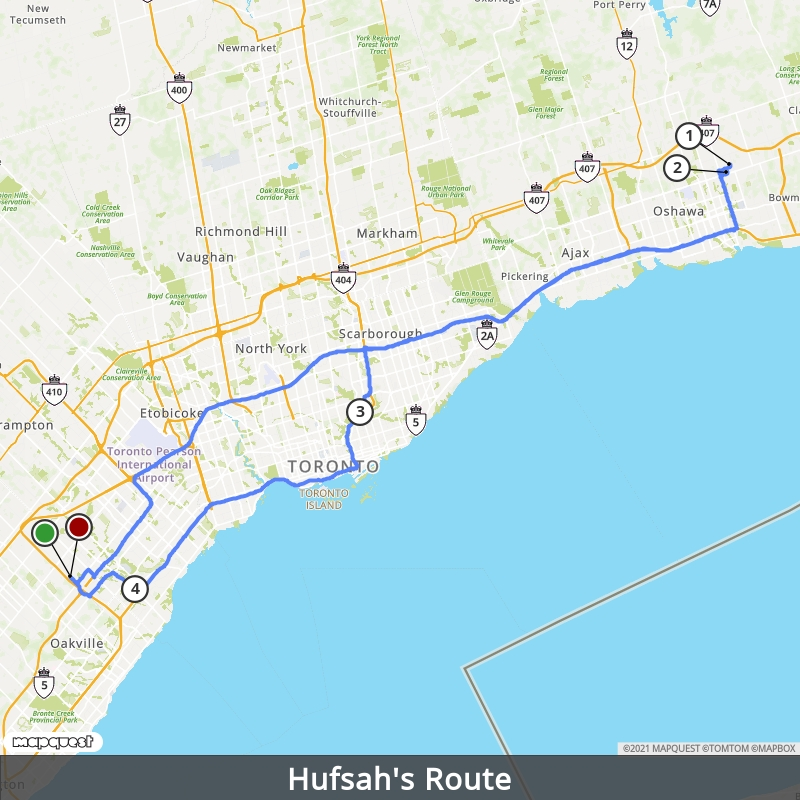
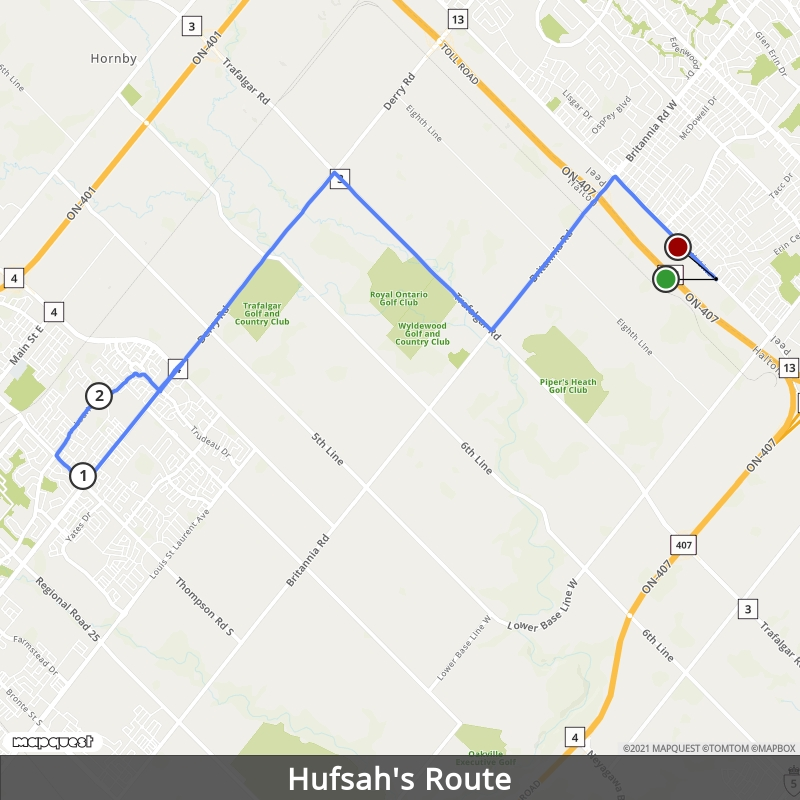
Update osp routes

diff --git a/osp/out/info.js b/osp/out/info.js
@@ -1,1 +1,1 @@
-var route_info = [{"name": "Hufsah Khan", "map": "out/Hufsah_Khan.png", "sequence": ["1609 Docking Court, Oshawa", "1441 Grandview Street North, Oshawa", "75 Thorncliffe Park Drive, Toronto", "1970 Fowler Drive, Mississauga"], "details": ["L / White", "XL / Maroon", "Unit 502, S / Navy", "Unit 1212, L / Navy, Custom Name - XXL / Navy"], "units": ["1.0", "1.0", "1.0", "2.0"], "names": ["Syed Haider", "Amna Khalid", "Azizul Chowdhury", "Nour Elgawish"], "phones": ["", "1-647-237-9830", "647-769-6377", "647-677-2746"], "time": "9766"}, {"name": "Ameer Qamar", "map": "out/Ameer_Qamar.png", "sequence": ["28 Mericourt Road, Hamilton", "35 Gisele Drive, Hamilton"], "details": ["L / Navy", "XL / Maroon, XL / Navy"], "units": ["1.0", "2.0"], "names": ["Nazmus Sadat", "Fatima Noor"], "phones": ["289-788-7943", "1-289-925-1282"], "time": "7337"}, {"name": "Mohammad Ali", "map": "out/Mohammad_Ali.png", "sequence": ["60 Grovewood Drive, Brampton", "1051 Wallbrook Crescent, Milton", "1380 Costigan Road, Milton", "550 Steddick Court, Mississauga", "285 Enfield Place, Mississauga", "677 Balmoral Drive, Brampton"], "details": ["M / Navy", "XL / Maroon", "Unit 88, S / White", "Unit 36, XL / Navy", "Unit 1810, Custom Name - M / Navy", "L / Maroon"], "units": ["1.0", "1.0", "1.0", "1.0", "1.0", "1.0"], "names": ["Mohammad Ali", "Jana Alborno", "Arham Hasan", "Hedaya Al-Qazli", "Qamar Mobayed", "Samar Riaz"], "phones": ["1-647-787-4894", "647-767-6965", "289-400-6393", "", "647-641-2214", "647-617-5758"], "time": "5553"}, {"name": "Basma Hamodi", "map": "out/Basma_Hamodi.png", "sequence": ["345 King Street North, Waterloo"], "details": ["Unit 507, M / Maroon"], "units": ["1.0"], "names": ["Mahdin Ahmed"], "phones": ["647-554-7510"], "time": "812"}];
+var route_info = [{"name": "Hufsah Khan", "map": "out/Hufsah_Khan.png", "sequence": ["1051 Wallbrook Crescent, Milton", "1380 Costigan Road, Milton"], "details": ["XL / Maroon", "Unit 88, S / White"], "units": ["1.0", "1.0"], "names": ["Jana Alborno", "Arham Hasan"], "phones": ["647-767-6965", "289-400-6393"], "time": "1772"}, {"name": "Ameer Qamar", "map": "out/Ameer_Qamar.png", "sequence": ["28 Mericourt Road, Hamilton", "35 Gisele Drive, Hamilton"], "details": ["L / Navy", "XL / Maroon, XL / Navy"], "units": ["1.0", "2.0"], "names": ["Nazmus Sadat", "Fatima Noor"], "phones": ["289-788-7943", "1-289-925-1282"], "time": "7337"}, {"name": "Mohammad Ali", "map": "out/Mohammad_Ali.png", "sequence": ["60 Grovewood Drive, Brampton", "677 Balmoral Drive, Brampton"], "details": ["M / Navy", "L / Maroon"], "units": ["1.0", "1.0"], "names": ["Mohammad Ali", "Samar Riaz"], "phones": ["1-647-787-4894", "647-617-5758"], "time": "2198"}, {"name": "Basma Hamodi", "map": "out/Basma_Hamodi.png", "sequence": ["345 King Street North, Waterloo"], "details": ["Unit 507, M / Maroon"], "units": ["1.0"], "names": ["Mahdin Ahmed"], "phones": ["647-554-7510"], "time": "812"}];

diff --git a/osp/index.html b/osp/index.html
@@ -8,8 +8,8 @@
         <meta name="viewport" content="width=device-width, initial-scale=1.0, shrink-to-fit=no">
 
         <!-- Title and description -->
-        <title>OSP Routes</title>
-        <meta name="description" content="UWOSP Sweater Delivery Routes">
+        <title>OSP Routes</title>        
+        <meta name="description" content="UWOSP Routes for April packages">
 
         <!-- Prevent most search engine web crawlers from indexing page (making it searchable on the web) -->
         <meta name="robots" content="noindex">
@@ -33,6 +33,9 @@
             <h1 id="main-title">OSP Routes</h1>
             <div id="RouteLinks" class="text-center d-flex flex-column align-items-center justify-content-center"></div>
             <h2 class="mt-2">Overview</h2>
+            <div>
+                <strong>Note: </strong>5 addresses were skipped: 2 in Oshawa, 2 in Mississauga, and 1 in Toronto
+            </div>
             <table class="table table-bordered mt-2">
                 <thead>
                     <tr>
